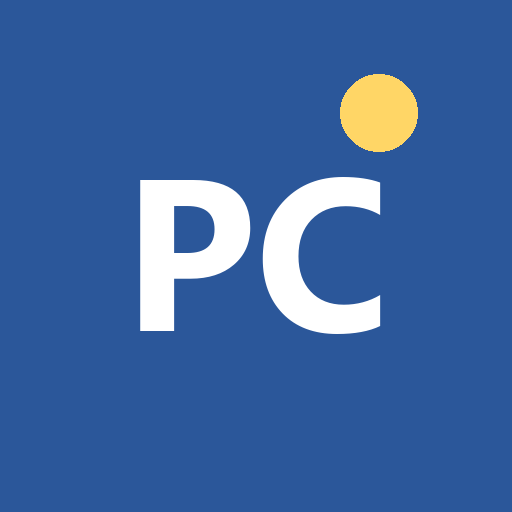
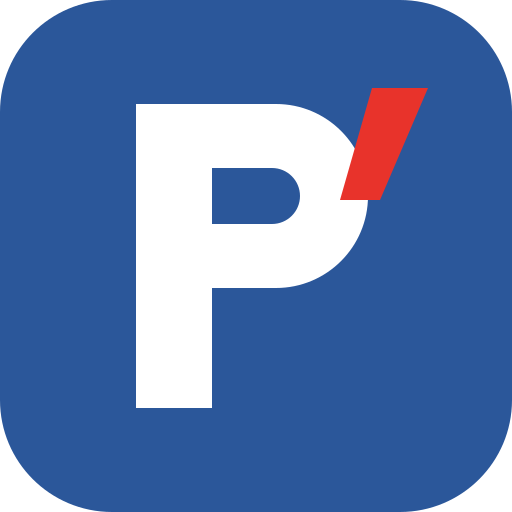
rebuilt my  console to use the offwhite color group

diff --git a/src/app/globals.css b/src/app/globals.css
@@ -1,42 +1,100 @@
-:root { --accent: #2b579a; --ink: #1f2633; --muted: #667085; --line: #e3e6ec; --bg: #f5f6f8; }
+:root {
+  --red: #d7261e; --gold: #c9a227; --blue: #2b579a;
+  --ink: #23211e; --muted: #6b675f; --line: #e6e2da; --sand: #f6f4f0; --paper: #fff;
+}
 * { box-sizing: border-box; }
-body { margin: 0; font: 15px/1.45 "Segoe UI", system-ui, sans-serif; color: var(--ink); background: var(--bg); }
-button { font: inherit; padding: 7px 14px; border: 1px solid var(--line); border-radius: 8px; background: #fff; cursor: pointer; }
-button.primary { background: var(--accent); border-color: var(--accent); color: #fff; }
-button.link { border: none; background: none; color: var(--accent); padding: 4px 6px; }
+html, body { height: 100%; }
+body { margin: 0; font: 16px/1.5 var(--font), "Segoe UI", system-ui, sans-serif; color: var(--ink); background: var(--paper); }
+button { font: inherit; color: inherit; padding: 8px 14px; border: 1px solid var(--line); border-radius: 8px; background: #fff; cursor: pointer; }
+button.primary { background: var(--ink); border-color: var(--ink); color: #fff; font-weight: 700; }
+button.link, .text-link { border: none; background: none; color: var(--red); padding: 0; font-weight: 700; cursor: pointer; }
+button:focus-visible, input:focus-visible, a:focus-visible { outline: 2px solid var(--red); outline-offset: 2px; }
+a { color: var(--red); }
 .error { color: #b42318; }
 .hint { color: var(--muted); font-size: 13px; }
+.eyebrow { margin: 0; color: var(--red); font-size: 13px; font-weight: 700; letter-spacing: 0.22em; text-transform: uppercase; }
+.rule { display: block; width: 56px; height: 3px; border-radius: 2px; background: linear-gradient(90deg, var(--red) 0 65%, var(--gold) 65%); }
 
-.signin { max-width: 360px; margin: 12vh auto; padding: 0 16px; }
-.signin form { display: grid; gap: 12px; background: #fff; padding: 20px; border: 1px solid var(--line); border-radius: 12px; }
-.signin label { display: grid; gap: 4px; font-size: 13px; color: var(--muted); }
-.signin input { font: inherit; padding: 8px 10px; border: 1px solid var(--line); border-radius: 8px; color: var(--ink); }
+/* ---- Welcome: sign in, forgot, new password ---- */
+.welcome { min-height: 100vh; display: grid; grid-template-columns: minmax(0, 1fr) minmax(0, 1fr); }
+.brand-panel {
+  position: relative; overflow: hidden; display: flex; flex-direction: column; justify-content: space-between; gap: 40px;
+  padding: 72px 56px 56px; background: var(--sand); border-left: 8px solid var(--red);
+}
+.brand-panel::after {
+  content: ""; position: absolute; right: -180px; bottom: -220px; width: 520px; height: 520px; border-radius: 50%;
+  border: 64px solid #efe9de; pointer-events: none;
+}
+.brand-mark { display: flex; align-items: center; gap: 16px; font-size: 22px; font-weight: 900; line-height: 1.05; letter-spacing: -0.01em; }
+.brand-copy { position: relative; z-index: 1; max-width: 560px; display: grid; gap: 20px; }
+.brand-copy h2 { margin: 0; font-size: clamp(34px, 3.6vw, 52px); line-height: 1.12; font-weight: 900; letter-spacing: -0.02em; }
+.brand-copy .lede { margin: 0; color: var(--muted); font-size: 18px; line-height: 1.6; }
+.brand-panel footer { position: relative; z-index: 1; display: flex; justify-content: space-between; align-items: baseline; gap: 16px; flex-wrap: wrap; color: var(--muted); font-size: 14px; }
 
-.inbox { max-width: 1100px; margin: 0 auto; padding: 12px 16px 40px; }
-.inbox header { display: flex; flex-wrap: wrap; gap: 10px; align-items: center; }
-.inbox header h1 { margin: 0 auto 0 0; font-size: 20px; }
+.form-panel { display: grid; place-items: center; padding: 48px 24px; }
+.form-panel form { width: 100%; max-width: 400px; display: grid; }
+.form-panel h1 { margin: 10px 0 14px; font-size: 40px; line-height: 1.1; font-weight: 900; letter-spacing: -0.02em; }
+.form-panel .lead { margin: 22px 0 30px; color: var(--muted); font-size: 17px; }
+.mobile-mark { display: none; margin-bottom: 28px; }
+.field { display: grid; gap: 8px; margin-bottom: 22px; }
+.field > span:first-child { display: flex; justify-content: space-between; align-items: baseline; font-size: 13px; font-weight: 700; letter-spacing: 0.14em; text-transform: uppercase; color: var(--muted); }
+.field .text-link { font-size: 14px; letter-spacing: 0; text-transform: none; }
+.field input { width: 100%; font: inherit; padding: 13px 16px; border: 1px solid var(--line); border-radius: 8px; background: #fff; color: var(--ink); }
+.field input::placeholder { color: #a8a399; }
+.field input:focus { border-color: var(--ink); outline: none; box-shadow: 0 0 0 3px rgb(35 33 30 / 0.08); }
+.pw { position: relative; display: block; }
+.pw input { padding-right: 52px; }
+.pw .eye { position: absolute; right: 6px; top: 50%; transform: translateY(-50%); border: none; background: none; padding: 8px; color: var(--muted); display: grid; }
+.go {
+  display: flex; align-items: center; justify-content: center; gap: 10px; margin-top: 8px; padding: 15px 20px;
+  border: none; border-radius: 8px; background: var(--ink); color: #fff; font-size: 17px; font-weight: 700;
+}
+.go svg { color: var(--gold); }
+.go:hover { background: #000; }
+.go:disabled { opacity: 0.6; cursor: wait; }
+.form-panel .error, .form-panel .note { margin: 16px 0 0; font-size: 15px; }
+.form-panel .note { color: #1f6b3a; }
+.form-panel .foot { margin: 36px 0 0; color: #8d887e; font-size: 14px; }
+
+@media (max-width: 860px) {
+  .welcome { grid-template-columns: 1fr; }
+  .brand-panel { display: none; }
+  .mobile-mark { display: block; }
+  .form-panel { place-items: start center; padding-top: 12vh; border-top: 6px solid var(--red); }
+  .form-panel h1 { font-size: 34px; }
+}
+
+/* ---- Inbox ---- */
+.inbox { max-width: 1120px; margin: 0 auto; padding: 18px 16px 48px; }
+.inbox header { display: flex; flex-wrap: wrap; gap: 12px; align-items: center; padding-bottom: 14px; border-bottom: 1px solid var(--line); }
+.inbox header h1 { display: flex; align-items: center; gap: 10px; margin: 0 auto 0 0; font-size: 21px; font-weight: 900; }
 .notify { display: flex; gap: 8px; align-items: center; flex-wrap: wrap; }
-.filters { display: flex; gap: 6px; margin: 14px 0; flex-wrap: wrap; }
+.filters { display: flex; gap: 6px; margin: 16px 0; flex-wrap: wrap; align-items: center; }
+.filters button { border-radius: 999px; padding: 6px 14px; }
 .filters .on { background: var(--ink); color: #fff; border-color: var(--ink); }
+.filters .link { margin-left: 6px; }
 
 .panes { display: grid; grid-template-columns: minmax(0, 1fr); gap: 14px; }
 @media (min-width: 860px) { .panes.reading { grid-template-columns: minmax(0, 1fr) minmax(0, 1.2fr); } .detail .back { display: none; } }
 @media (max-width: 859px) { .panes.reading .list { display: none; } }
 .list { list-style: none; margin: 0; padding: 0; display: grid; gap: 8px; }
-.list li { background: #fff; border: 1px solid var(--line); border-radius: 10px; padding: 10px 12px; cursor: pointer; }
-.list li.on { border-color: var(--accent); box-shadow: 0 0 0 1px var(--accent); }
-.list li.new p { font-weight: 600; }
-.list li.done { opacity: 0.65; }
-.list li p { margin: 4px 0; display: -webkit-box; -webkit-line-clamp: 2; -webkit-box-orient: vertical; overflow: hidden; }
+.list li { background: #fff; border: 1px solid var(--line); border-radius: 10px; padding: 12px 14px; cursor: pointer; }
+.list li:hover { border-color: #cfc8bb; }
+.list li.on { border-color: var(--ink); box-shadow: 0 0 0 1px var(--ink); }
+.list li.new { border-left: 4px solid var(--red); }
+.list li.new p { font-weight: 700; }
+.list li.done { opacity: 0.6; }
+.list li p { margin: 6px 0 4px; display: -webkit-box; -webkit-line-clamp: 2; -webkit-box-orient: vertical; overflow: hidden; }
 .list li small { color: var(--muted); }
-.list .empty { cursor: default; color: var(--muted); }
-.meta { display: flex; gap: 8px; align-items: center; font-size: 12.5px; color: var(--muted); flex-wrap: wrap; }
+.list .empty { cursor: default; color: var(--muted); background: var(--sand); }
+.meta { display: flex; gap: 8px; align-items: center; font-size: 13px; color: var(--muted); flex-wrap: wrap; }
 .meta time { margin-left: auto; }
-.kind { padding: 1px 8px; border-radius: 10px; font-weight: 600; color: #fff; background: #667085; }
-.kind.bug { background: #c4320a; } .kind.difficulty { background: #b54708; } .kind.idea { background: #2e7d32; } .kind.general { background: var(--accent); }
+.kind { padding: 1px 9px; border-radius: 999px; font-weight: 700; font-size: 12px; color: #fff; background: #6b675f; }
+.kind.bug { background: var(--red); } .kind.difficulty { background: #b8650a; } .kind.idea { background: #2e7d32; } .kind.general { background: var(--blue); }
 
-.detail { background: #fff; border: 1px solid var(--line); border-radius: 12px; padding: 16px; align-self: start; }
-.detail .text { white-space: pre-wrap; font-size: 16px; margin: 12px 0; }
+.detail { background: #fff; border: 1px solid var(--line); border-radius: 12px; padding: 18px; align-self: start; }
+.detail .text { white-space: pre-wrap; font-size: 17px; margin: 14px 0; }
 .detail .files { padding-left: 18px; }
-.detail pre { background: var(--bg); padding: 10px; border-radius: 8px; overflow: auto; font-size: 12px; }
-.detail .actions { display: flex; gap: 8px; margin-top: 12px; }
+.detail pre { background: var(--sand); padding: 10px; border-radius: 8px; overflow: auto; font-size: 12px; }
+.detail .actions { display: flex; gap: 8px; margin-top: 14px; }
+.detail .back { margin-bottom: 8px; }

diff --git a/src/app/page.tsx b/src/app/page.tsx
@@ -21,34 +21,118 @@ const kb = (n: number) => (n < 1048576 ? `${Math.max(1, Math.round(n / 1024))} K
 export default function Console() {
   const [session, setSession] = useState<Session | null>(null);
   const [ready, setReady] = useState(false);
+  const [recovering, setRecovering] = useState(false);
   useEffect(() => {
     void supabase.auth.getSession().then(({ data }) => { setSession(data.session); setReady(true); });
-    const { data } = supabase.auth.onAuthStateChange((_e, s) => setSession(s));
+    const { data } = supabase.auth.onAuthStateChange((event, s) => {
+      setSession(s);
+      if (event === "PASSWORD_RECOVERY") setRecovering(true);
+    });
     return () => data.subscription.unsubscribe();
   }, []);
   if (!ready) return null;
-  return session ? <Inbox session={session} /> : <SignIn />;
+  if (recovering) return <Welcome mode="reset" onDone={() => setRecovering(false)} />;
+  return session ? <Inbox session={session} /> : <Welcome mode="signin" />;
 }
 
-function SignIn() {
+/** The Prime P with its red prime mark: the family's logo. */
+function Logo({ size = 44 }: { size?: number }) {
+  return <img src="/logo.svg" width={size} height={size} alt="" />;
+}
+
+/** Sign in, "forgot password", and setting a new password (from the emailed link): one welcoming page. */
+function Welcome({ mode: start, onDone }: { mode: "signin" | "reset"; onDone?: () => void }) {
+  const [mode, setMode] = useState<"signin" | "forgot" | "reset">(start);
   const [email, setEmail] = useState("");
   const [password, setPassword] = useState("");
+  const [show, setShow] = useState(false);
+  const [busy, setBusy] = useState(false);
   const [error, setError] = useState("");
-  return (
-    <main className="signin">
-      <h1>Prime Console</h1>
-      <form onSubmit={async (e) => {
-        e.preventDefault();
-        setError("");
+  const [note, setNote] = useState("");
+
+  const submit = async (e: React.FormEvent) => {
+    e.preventDefault();
+    if (busy) return;
+    setBusy(true); setError(""); setNote("");
+    try {
+      if (mode === "signin") {
         const { error } = await supabase.auth.signInWithPassword({ email, password });
+        if (error) setError(error.message === "Invalid login credentials" ? "That email and password don't match." : error.message);
+      } else if (mode === "forgot") {
+        const { error } = await supabase.auth.resetPasswordForEmail(email, { redirectTo: location.origin });
         if (error) setError(error.message);
-      }}>
-        <label>Email <input type="email" value={email} onChange={(e) => setEmail(e.target.value)} autoComplete="username" required /></label>
-        <label>Password <input type="password" value={password} onChange={(e) => setPassword(e.target.value)} autoComplete="current-password" required /></label>
-        <button className="primary">Sign in</button>
-        {error && <p className="error">{error}</p>}
-      </form>
-    </main>
+        else setNote("If that email has an account, a link to set a new password is on its way.");
+      } else {
+        const { error } = await supabase.auth.updateUser({ password });
+        if (error) setError(error.message);
+        else { history.replaceState(null, "", "/"); onDone?.(); }
+      }
+    } finally { setBusy(false); }
+  };
+
+  const title = { signin: "Welcome back", forgot: "Reset your password", reset: "Choose a new password" }[mode];
+  const lead = {
+    signin: "Use your Prime Console email and password.",
+    forgot: "Enter your email and we'll send you a link to set a new password.",
+    reset: "At least 8 characters. You'll stay signed in on this device.",
+  }[mode];
+
+  return (
+    <div className="welcome">
+      <aside className="brand-panel">
+        <div className="brand-mark"><Logo size={72} /><span>Prime<br />Productivity</span></div>
+        <div className="brand-copy">
+          <p className="eyebrow">Prime Console</p>
+          <h2>Every report, from every app, in one place.</h2>
+          <span className="rule" />
+          <p className="lede">Bug reports, feature requests and feedback from Prime Word and the apps to come, with a
+            notification on your phone the moment one arrives.</p>
+        </div>
+        <footer><span className="eyebrow">Tools that work for you</span><span>© Prime Productivity</span></footer>
+      </aside>
+      <main className="form-panel">
+        <form onSubmit={submit}>
+          <div className="mobile-mark"><Logo size={44} /></div>
+          <p className="eyebrow">{mode === "signin" ? "Sign in" : "Password"}</p>
+          <h1>{title}</h1>
+          <span className="rule" />
+          <p className="lead">{lead}</p>
+          {mode !== "reset" && (
+            <label className="field"><span>Email address</span>
+              <input type="email" value={email} onChange={(e) => setEmail(e.target.value)} placeholder="you@example.com" autoComplete="username" required autoFocus />
+            </label>
+          )}
+          {mode !== "forgot" && (
+            <label className="field">
+              <span>{mode === "reset" ? "New password" : "Password"}
+                {mode === "signin" && <button type="button" className="text-link" onClick={() => { setMode("forgot"); setError(""); }}>Forgot password?</button>}
+              </span>
+              <span className="pw">
+                <input type={show ? "text" : "password"} value={password} onChange={(e) => setPassword(e.target.value)}
+                  autoComplete={mode === "reset" ? "new-password" : "current-password"} minLength={mode === "reset" ? 8 : undefined} required autoFocus={mode === "reset"} />
+                <button type="button" className="eye" onClick={() => setShow(!show)} aria-label={show ? "Hide password" : "Show password"} title={show ? "Hide password" : "Show password"}>
+                  <svg viewBox="0 0 24 24" width="20" height="20" fill="none" stroke="currentColor" strokeWidth="1.8" strokeLinecap="round">
+                    <path d="M2 12s3.6-7 10-7 10 7 10 7-3.6 7-10 7S2 12 2 12Z" /><circle cx="12" cy="12" r="3" />
+                    {show && <path d="M4 4l16 16" />}
+                  </svg>
+                </button>
+              </span>
+            </label>
+          )}
+          <button className="go" disabled={busy}>
+            {{ signin: "Sign in", forgot: "Send the link", reset: "Save password" }[mode]}
+            <svg viewBox="0 0 24 24" width="20" height="20" fill="none" stroke="currentColor" strokeWidth="2" strokeLinecap="round" strokeLinejoin="round">
+              <path d="M3 12h12M11 7l5 5-5 5M20 4v16" />
+            </svg>
+          </button>
+          {error && <p className="error" role="alert">{error}</p>}
+          {note && <p className="note" role="status">{note}</p>}
+          {mode === "forgot"
+            ? <p className="foot"><button type="button" className="text-link" onClick={() => { setMode("signin"); setNote(""); setError(""); }}>← Back to sign in</button></p>
+            : <p className="foot">Need an account? Accounts are added by the owner in Supabase → Authentication.</p>}
+        </form>
+      </main>
+    </div>
   );
 }
 
@@ -92,7 +176,7 @@ function Inbox({ session }: { session: Session }) {
   return (
     <main className="inbox">
       <header>
-        <h1>Prime Console</h1>
+        <h1><Logo size={30} /> Prime Console</h1>
         <Notifications api={api} />
         <button className="link" onClick={() => void supabase.auth.signOut()}>Sign out</button>
       </header>

diff --git a/src/app/layout.tsx b/src/app/layout.tsx
@@ -1,19 +1,22 @@
 import type { Metadata, Viewport } from "next";
+import { Lato } from "next/font/google";
 import "./globals.css";
+
+const lato = Lato({ subsets: ["latin"], weight: ["400", "700", "900"], variable: "--font" });
 
 export const metadata: Metadata = {
   title: "Prime Console",
   description: "Feedback from Prime Productivity's apps",
   manifest: "/manifest.webmanifest",
   appleWebApp: { capable: true, title: "Prime Console", statusBarStyle: "default" },
-  icons: { icon: "/icon-192.png", apple: "/icon-192.png" },
+  icons: { icon: [{ url: "/logo.svg", type: "image/svg+xml" }, { url: "/icon-192.png" }], apple: "/apple-icon.png" },
 };
 
-export const viewport: Viewport = { themeColor: "#2b579a", width: "device-width", initialScale: 1 };
+export const viewport: Viewport = { themeColor: "#f6f4f0", width: "device-width", initialScale: 1 };
 
 export default function RootLayout({ children }: { children: React.ReactNode }) {
   return (
-    <html lang="en">
+    <html lang="en" className={lato.variable}>
       <body>{children}</body>
     </html>
   );
